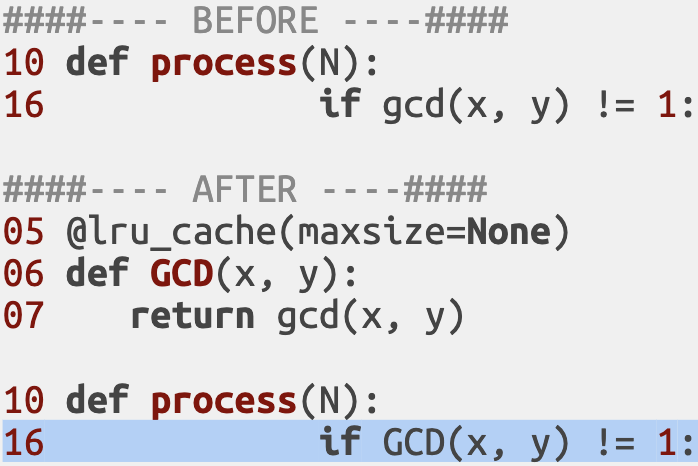
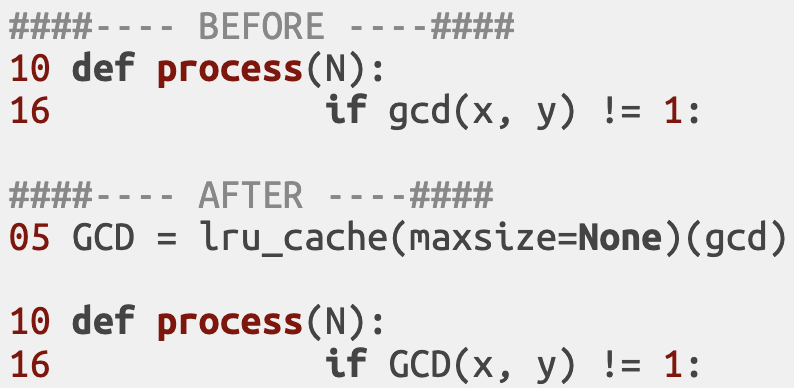
optimise: simplify lru_cache

diff --git a/optimise/v12.py b/optimise/v12.py
@@ -3,10 +3,7 @@ from math import gcd
 from math import sqrt
 from functools import lru_cache
 
-
-@lru_cache(maxsize=None)
-def GCD(x, y):
-    return gcd(x, y)
+GCD = lru_cache(maxsize=None)(gcd)
 
 
 def process(N):
